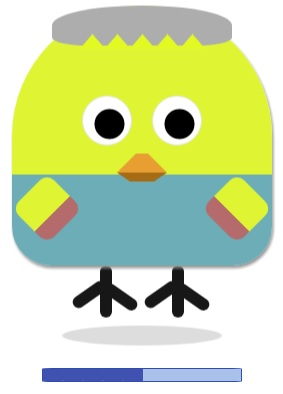
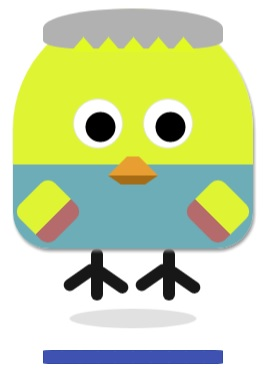
Update actor component

diff --git a/style/indicator.sass b/style/indicator.sass
@@ -1,7 +1,8 @@
-$hp-h: 0.7rem
+$indicator-w: 9rem
+$indicator-h: 0.7rem
 
 .indicator
-  +shape(10rem, $hp-h, 5%)
+  +shape($indicator-w, $indicator-h, 5%)
   position: relative
   margin: 1rem auto 0 auto
   border: 1px #314cb1 solid
@@ -11,6 +12,6 @@ $hp-h: 0.7rem
     align-items: center
     justify-content: flex-start
     span
-      +shape(1rem, #{$hp-h - 0.1rem}, 5%)
+      +shape(#{$indicator-w / 10}, #{$indicator-h - 0.1rem}, 5%)
       display: block
       background: #3f52b1

diff --git a/style/chick.sass b/style/chick.sass
@@ -1,4 +1,4 @@
-$chick-body: 13rem
+$chick-body: 12rem
 $chick-eyes: 2.5rem
 $chick-mouth: 2.5rem
 $chick-hand: 2.5rem
@@ -86,6 +86,6 @@ $chick-feet: 0.6rem
       &:after
         transform: rotate(-55deg) translate(5px,5px)
   .shadow
-    +shape(#{$chick-body - 5rem}, 1rem, 50%)
+    +shape(#{$chick-body - 5.5rem}, 1rem, 50%)
     margin: 0 auto
     background: rgba(132, 132, 132, 0.28)
